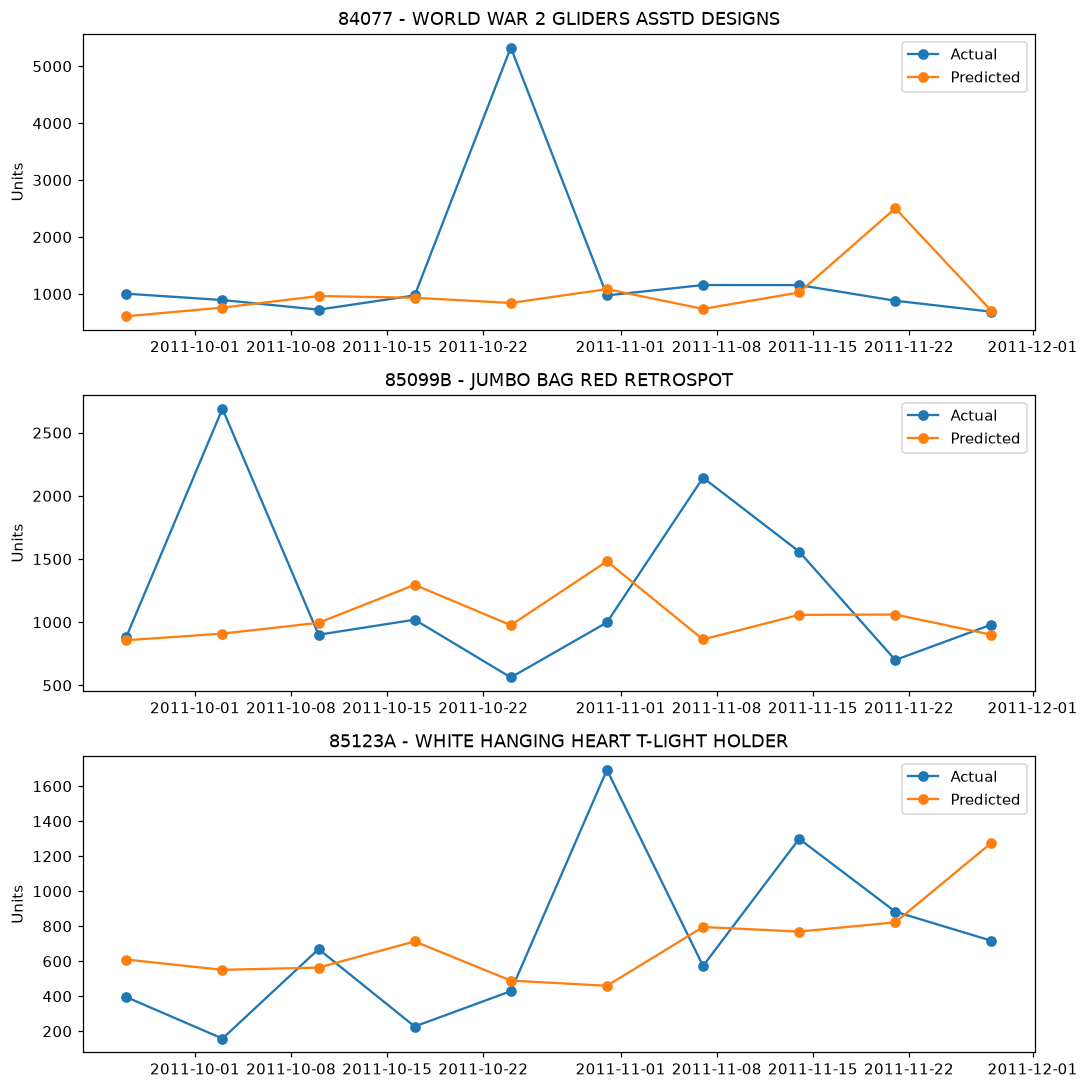
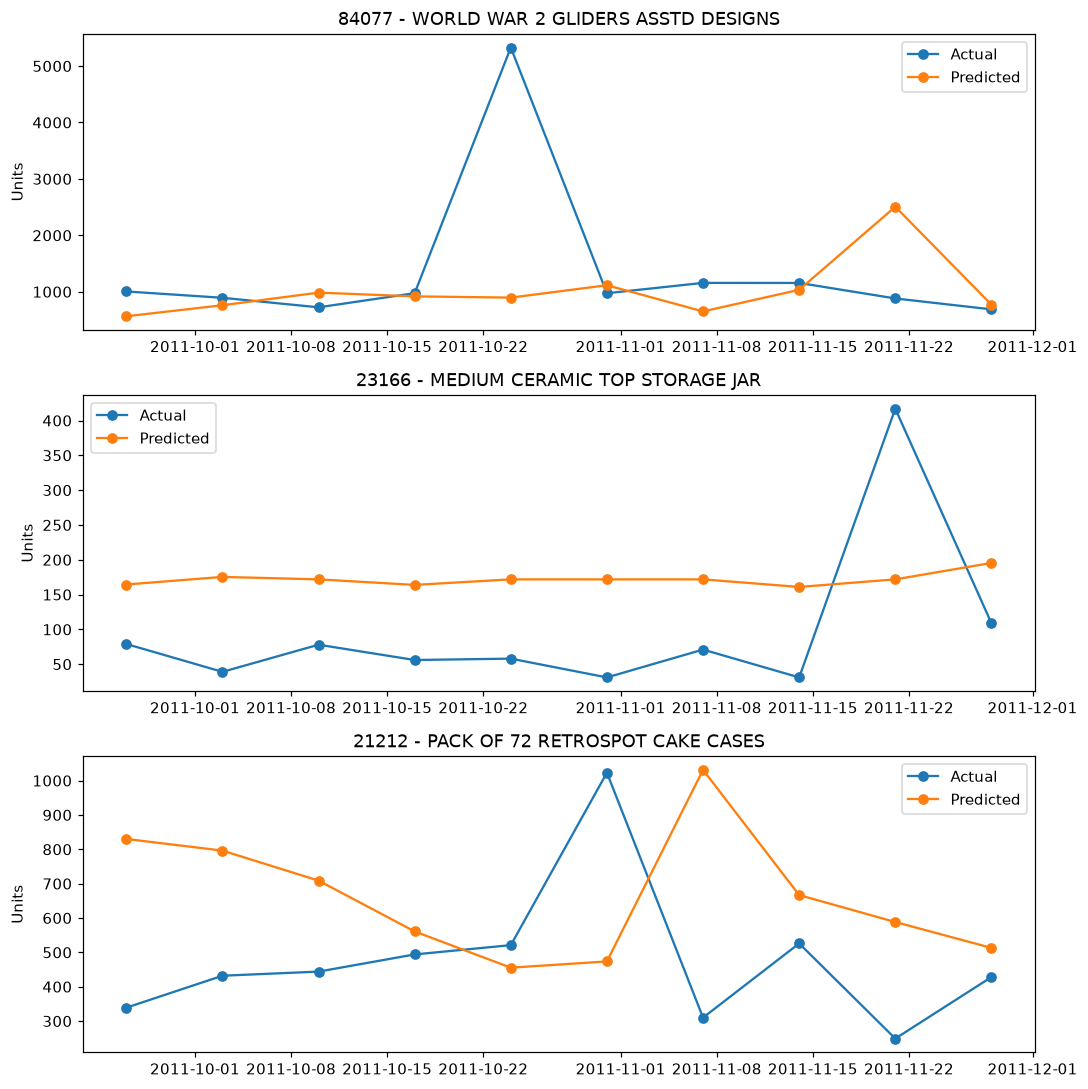
fix: separate model selection and top-product selection from test period in demand prediction

diff --git a/scripts/demand_prediction.py b/scripts/demand_prediction.py
@@ -6,6 +6,17 @@ estimate how many units of a specific product will sell next week. The
 full catalog has thousands of products and most of them sell too rarely
 to model well, so this script focuses on the top selling products.
 
+Two things need to stay on the correct side of the train/test split:
+
+1. which products count as "top selling" is decided using only data
+   from before the final test period, not the whole timeline. Otherwise
+   a product that happens to spike during the test weeks could get
+   pulled into the modeled set because of sales we are not supposed to
+   know about yet.
+2. which model wins is decided on a validation period, the final test
+   period is only touched once, after the winning model is already
+   chosen.
+
 Run scripts/clean_data.py first so data/processed/purchases_clean.csv exists.
 """
 
@@ -19,6 +30,8 @@ from sklearn.metrics import mean_absolute_error, mean_squared_error
 RANDOM_STATE = 42
 N_TOP_PRODUCTS = 50
 TEST_WEEKS = 10
+VALIDATION_WEEKS = 8
+N_EXAMPLE_PRODUCTS = 8
 
 PROCESSED_DIR = os.path.join("data", "processed")
 FIGURES_DIR = os.path.join("outputs", "figures")
@@ -26,17 +39,27 @@ TABLES_DIR = os.path.join("outputs", "tables")
 METRICS_PATH = os.path.join("outputs", "metrics", "model_metrics.csv")
 
 
-def build_product_week_data():
+def load_purchases():
     df = pd.read_csv(os.path.join(PROCESSED_DIR, "purchases_clean.csv"), parse_dates=["invoice_date"])
     df["week_start"] = df["invoice_date"].dt.to_period("W-SUN").dt.start_time
 
     # drop the last, incomplete week, same reasoning as sales_forecasting.py
     last_week = df["week_start"].max()
     df = df[df["week_start"] < last_week]
+    return df
 
+
+def select_top_products(df, test_start_week):
+    # only use sales from before the test period to decide which products
+    # are "top selling", the test weeks must not influence this choice
+    pre_test = df[df["week_start"] < test_start_week]
     top_products = (
-        df.groupby("stock_code")["quantity"].sum().sort_values(ascending=False).head(N_TOP_PRODUCTS).index
+        pre_test.groupby("stock_code")["quantity"].sum().sort_values(ascending=False).head(N_TOP_PRODUCTS).index
     )
+    return top_products
+
+
+def build_product_week_data(df, top_products):
     df = df[df["stock_code"].isin(top_products)]
 
     weekly = (
@@ -76,6 +99,7 @@ def add_features(weekly):
     weekly["recent_avg_price"] = weekly.groupby("stock_code")["avg_price"].shift(1)
     weekly["month"] = weekly["week_start"].dt.month
     weekly["week_number"] = weekly["week_start"].dt.isocalendar().week.astype(int)
+    weekly["naive_prediction"] = weekly["qty_lag_1"]
 
     weekly = weekly.dropna().reset_index(drop=True)
     return weekly
@@ -86,7 +110,7 @@ def append_metrics(rows):
     new_rows = pd.DataFrame(rows, columns=["model", "metric", "value"])
     if os.path.exists(METRICS_PATH):
         existing = pd.read_csv(METRICS_PATH)
-        existing = existing[~existing["model"].isin(new_rows["model"].unique())]
+        existing = existing[~existing["model"].str.startswith("demand_")]
         combined = pd.concat([existing, new_rows], ignore_index=True)
     else:
         combined = new_rows
@@ -97,8 +121,15 @@ def main():
     os.makedirs(FIGURES_DIR, exist_ok=True)
     os.makedirs(TABLES_DIR, exist_ok=True)
 
-    print(f"Building product-week data for the top {N_TOP_PRODUCTS} products...")
-    weekly = build_product_week_data()
+    df = load_purchases()
+    all_weeks_sorted = sorted(df["week_start"].unique())
+    test_start_week = all_weeks_sorted[-TEST_WEEKS]
+    val_start_week = all_weeks_sorted[-(TEST_WEEKS + VALIDATION_WEEKS)]
+
+    print(f"Selecting top {N_TOP_PRODUCTS} products using sales before {test_start_week.date()} only...")
+    top_products = select_top_products(df, test_start_week)
+
+    weekly = build_product_week_data(df, top_products)
     weekly = add_features(weekly)
     print(f"{len(weekly)} product-week rows after feature engineering")
 
@@ -107,12 +138,14 @@ def main():
         "recent_revenue", "recent_avg_price", "month", "week_number",
     ]
 
-    cutoff_week = weekly["week_start"].sort_values().unique()[-TEST_WEEKS]
-    train = weekly[weekly["week_start"] < cutoff_week]
-    test = weekly[weekly["week_start"] >= cutoff_week]
-    print(f"Train rows: {len(train)}, Test rows: {len(test)} (test starts {cutoff_week.date()})")
+    train = weekly[weekly["week_start"] < val_start_week]
+    val = weekly[(weekly["week_start"] >= val_start_week) & (weekly["week_start"] < test_start_week)]
+    test = weekly[weekly["week_start"] >= test_start_week]
+    print(f"Train rows: {len(train)}, Validation rows: {len(val)}, Test rows: {len(test)}")
+    print(f"Validation starts {val_start_week.date()}, test starts {test_start_week.date()}")
 
     X_train, y_train = train[feature_cols], train["quantity"]
+    X_val, y_val = val[feature_cols], val["quantity"]
     X_test, y_test = test[feature_cols], test["quantity"]
 
     candidates = {
@@ -120,29 +153,44 @@ def main():
         "gradient_boosting": GradientBoostingRegressor(random_state=RANDOM_STATE),
     }
 
-    results = {}
+    print("\nValidation results (used to pick the model, not reported as final):")
+    val_scores = {}
     for name, model in candidates.items():
         model.fit(X_train, y_train)
-        preds = model.predict(X_test)
-        mae = mean_absolute_error(y_test, preds)
-        rmse = np.sqrt(mean_squared_error(y_test, preds))
-        results[name] = {"model": model, "mae": mae, "rmse": rmse, "preds": preds}
-        print(f"{name:<20} MAE: {mae:.2f}  RMSE: {rmse:.2f}")
+        val_preds = model.predict(X_val)
+        val_mae = mean_absolute_error(y_val, val_preds)
+        val_scores[name] = val_mae
+        print(f"{name:<20} validation MAE: {val_mae:.2f}")
 
-    best_name = min(results, key=lambda k: results[k]["mae"])
-    best = results[best_name]
-    print(f"\nBest model: {best_name}")
+    best_name = min(val_scores, key=val_scores.get)
+    print(f"\nBest model on validation: {best_name}")
+
+    X_train_val = pd.concat([X_train, X_val])
+    y_train_val = pd.concat([y_train, y_val])
+    best_model = candidates[best_name]
+    best_model.fit(X_train_val, y_train_val)
+    test_preds = best_model.predict(X_test)
+
+    baseline_mae = mean_absolute_error(y_test, test["naive_prediction"])
+    baseline_rmse = np.sqrt(mean_squared_error(y_test, test["naive_prediction"]))
+    model_mae = mean_absolute_error(y_test, test_preds)
+    model_rmse = np.sqrt(mean_squared_error(y_test, test_preds))
+
+    print(f"\nFinal test results ({TEST_WEEKS} untouched weeks):")
+    print(f"Naive baseline (last week's demand)  MAE: {baseline_mae:.2f}  RMSE: {baseline_rmse:.2f}")
+    print(f"{best_name:<20}                  MAE: {model_mae:.2f}  RMSE: {model_rmse:.2f}")
 
     test = test.copy()
-    test["predicted_quantity"] = best["preds"]
+    test["predicted_quantity"] = test_preds
 
-    # show a few representative products: the 3 highest volume ones
-    top_3_codes = (
-        weekly.groupby("stock_code")["quantity"].sum().sort_values(ascending=False).head(3).index
+    # show a handful of representative products: the highest volume ones
+    # in the modeled top-50 set (chosen without looking at test data)
+    example_codes = (
+        train.groupby("stock_code")["quantity"].sum().sort_values(ascending=False).head(N_EXAMPLE_PRODUCTS).index
     )
 
     fig, axes = plt.subplots(3, 1, figsize=(10, 10), sharex=False)
-    for ax, code in zip(axes, top_3_codes):
+    for ax, code in zip(axes, example_codes[:3]):
         product_test = test[test["stock_code"] == code].sort_values("week_start")
         desc = product_test["description"].iloc[0] if len(product_test) else code
         ax.plot(product_test["week_start"], product_test["quantity"], marker="o", label="Actual")
@@ -155,14 +203,17 @@ def main():
     plt.close(fig)
     print("Saved outputs/figures/13_demand_prediction_examples.png")
 
-    example_table = test[["stock_code", "description", "week_start", "quantity", "predicted_quantity"]]
-    example_table = example_table[example_table["stock_code"].isin(top_3_codes)].sort_values(["stock_code", "week_start"])
-    example_table.to_csv(os.path.join(TABLES_DIR, "demand_prediction_examples.csv"), index=False)
-    print("Saved outputs/tables/demand_prediction_examples.csv")
+    results_table = test[test["stock_code"].isin(example_codes)][
+        ["stock_code", "description", "week_start", "quantity", "predicted_quantity", "naive_prediction"]
+    ].rename(columns={"quantity": "actual_quantity"}).sort_values(["stock_code", "week_start"])
+    results_table.to_csv(os.path.join(TABLES_DIR, "demand_prediction_results.csv"), index=False)
+    print("Saved outputs/tables/demand_prediction_results.csv")
 
     metric_rows = [
-        ["demand_prediction", "MAE", round(best["mae"], 2)],
-        ["demand_prediction", "RMSE", round(best["rmse"], 2)],
+        ["demand_baseline", "MAE", round(baseline_mae, 2)],
+        ["demand_baseline", "RMSE", round(baseline_rmse, 2)],
+        [f"demand_{best_name}", "MAE", round(model_mae, 2)],
+        [f"demand_{best_name}", "RMSE", round(model_rmse, 2)],
     ]
     append_metrics(metric_rows)
     print("Saved metrics to outputs/metrics/model_metrics.csv")
